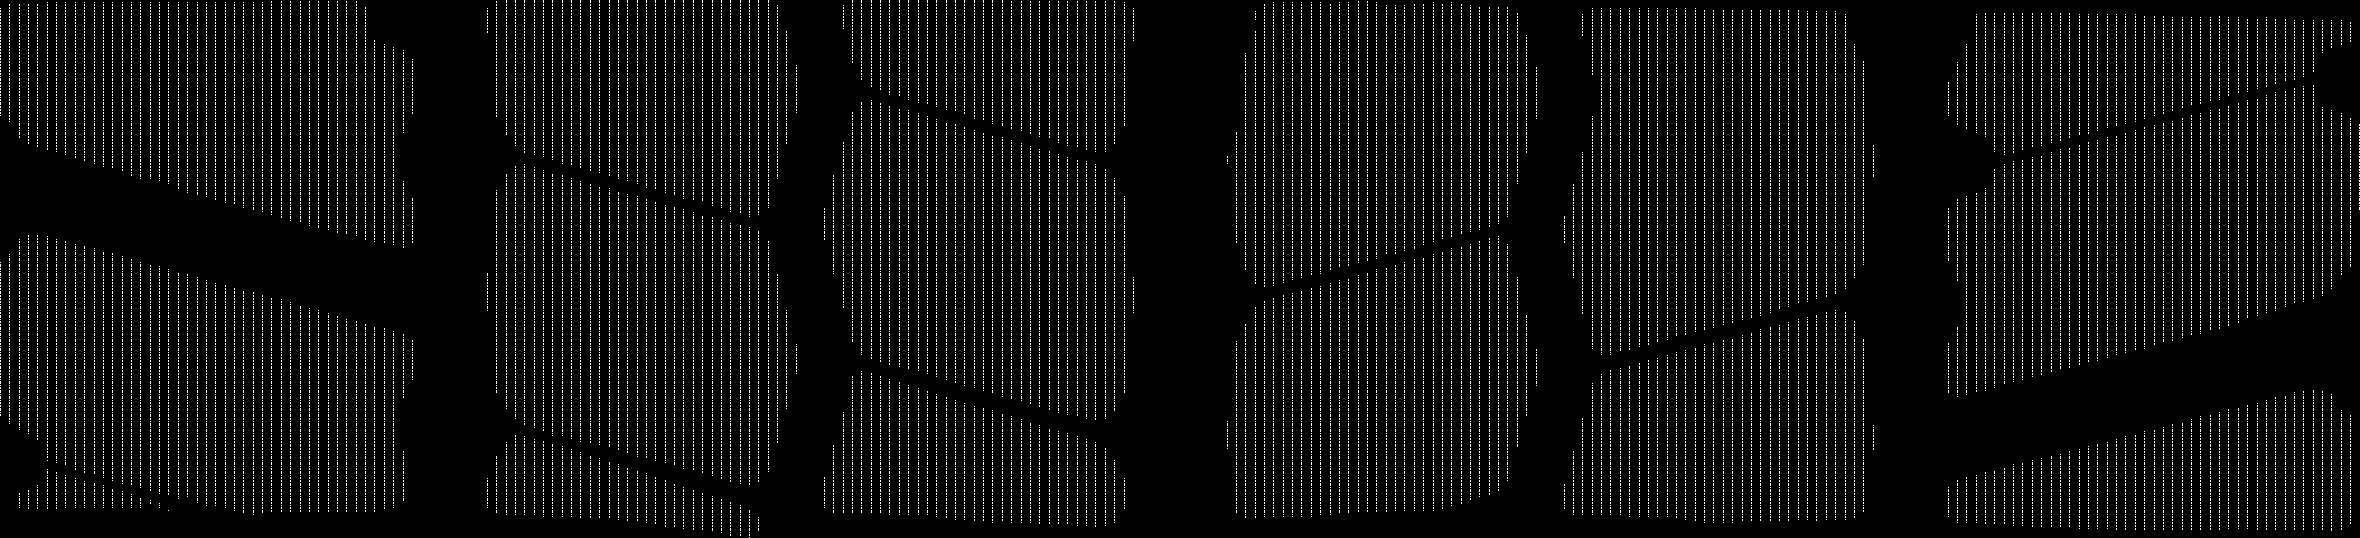
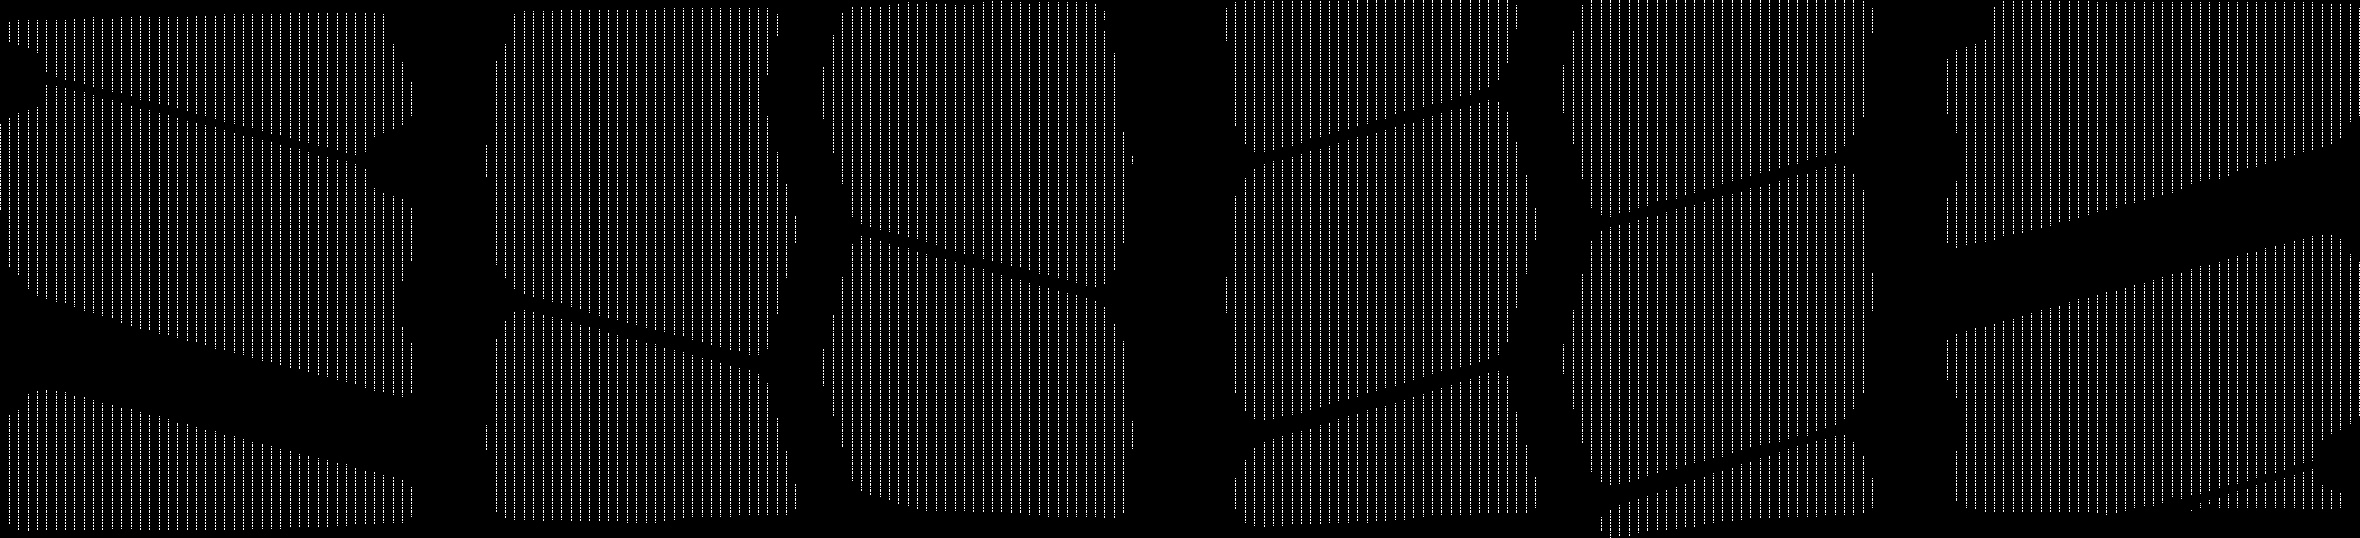
Update analysis

Changed region(s): [[0.9898, 0.2379, 1.0, 0.2677]]

diff --git a/project/Gocator/Gocator/Analysis.cpp b/project/Gocator/Gocator/Analysis.cpp
@@ -66,6 +66,7 @@ void GocatorCV::Analysis::Algorithm() {
     }
 
     cv::rotate(img, img, cv::ROTATE_90_CLOCKWISE);
+    cv::flip(img, img, 1);
 
     cv::imwrite("Scan/image.jpg", img);
     
@@ -94,7 +95,7 @@ void GocatorCV::Analysis::Algorithm() {
     }
 
     // Visualising a point cloud
-    //Visualization(transformedCloud);
+    Visualization(cloud);
 }
 
 void GocatorCV::Analysis::CheckValidPoints(pcl::PointCloud<pcl::PointXYZ>::Ptr cloud, pcl::PointCloud<pcl::PointXYZ>::Ptr cloudCorrect) {
@@ -294,16 +295,17 @@ void GocatorCV::Analysis::measurements(std::vector<std::vector<cv::Point>> conto
             std::cout << "Blob " << i << "\t- Area: " << setprecision(2) << std::fixed << area / 100 << " cm^2\tPerimetro: " << setprecision(2) << std::fixed << perimeter / 100 << " cm\tWidth: " << setprecision(2) << std::fixed << rotatedRect.size.height / 100 << " cm\tHeight: " << setprecision(2) << std::fixed << rotatedRect.size.width / 100 << " cm" << std::endl;
             statsWidth.push_back(rotatedRect.size.height);
             statsHeight.push_back(rotatedRect.size.width);
-            statsArea.push_back(area);
-            statsPerimeter.push_back(perimeter);
         }
+
+        statsArea.push_back(area);
+        statsPerimeter.push_back(perimeter);
     }
-    /*
+    
     std::cout << std::endl << "Area Minima: " << *std::min_element(statsArea.begin(), statsArea.end()) / 100 << " cm\t\tArea Massima: " << setprecision(2) << std::fixed << *std::max_element(statsArea.begin(), statsArea.end()) / 100 << " cm\t\tArea Media: " << setprecision(2) << std::fixed << (std::accumulate(statsArea.begin(), statsArea.end(), 0.0) / statsArea.size()) / 100 << " cm" << std::endl;
     std::cout << "Perimetro Minimo: " << *std::min_element(statsPerimeter.begin(), statsPerimeter.end()) / 100 << " cm\t\tPerimetro Massimo: " << setprecision(2) << std::fixed << *std::max_element(statsPerimeter.begin(), statsPerimeter.end()) / 100 << " cm\t\tPerimetro Medio: " << setprecision(2) << std::fixed << (std::accumulate(statsPerimeter.begin(), statsPerimeter.end(), 0.0) / statsPerimeter.size()) / 100 << " cm" << std::endl;
     std::cout << "Width Minima: " << *std::min_element(statsWidth.begin(), statsWidth.end()) / 100 << " cm\t\tWidth Massima: " << setprecision(2) << std::fixed << *std::max_element(statsWidth.begin(), statsWidth.end()) / 100 << " cm\t\tArea Width: " << setprecision(2) << std::fixed << (std::accumulate(statsWidth.begin(), statsWidth.end(), 0.0) / statsWidth.size()) / 100 << " cm" << std::endl;
     std::cout << "Height Minima: " << *std::min_element(statsHeight.begin(), statsHeight.end()) / 100 << " cm\t\tHeight Massima: " << setprecision(2) << std::fixed << *std::max_element(statsHeight.begin(), statsHeight.end()) / 100 << " cm\t\tHeight Media: " << setprecision(2) << std::fixed << (std::accumulate(statsHeight.begin(), statsHeight.end(), 0.0) / statsHeight.size()) / 100 << " cm" << std::endl;
-    */
+    
     std::cout << std::endl;
 }
 
